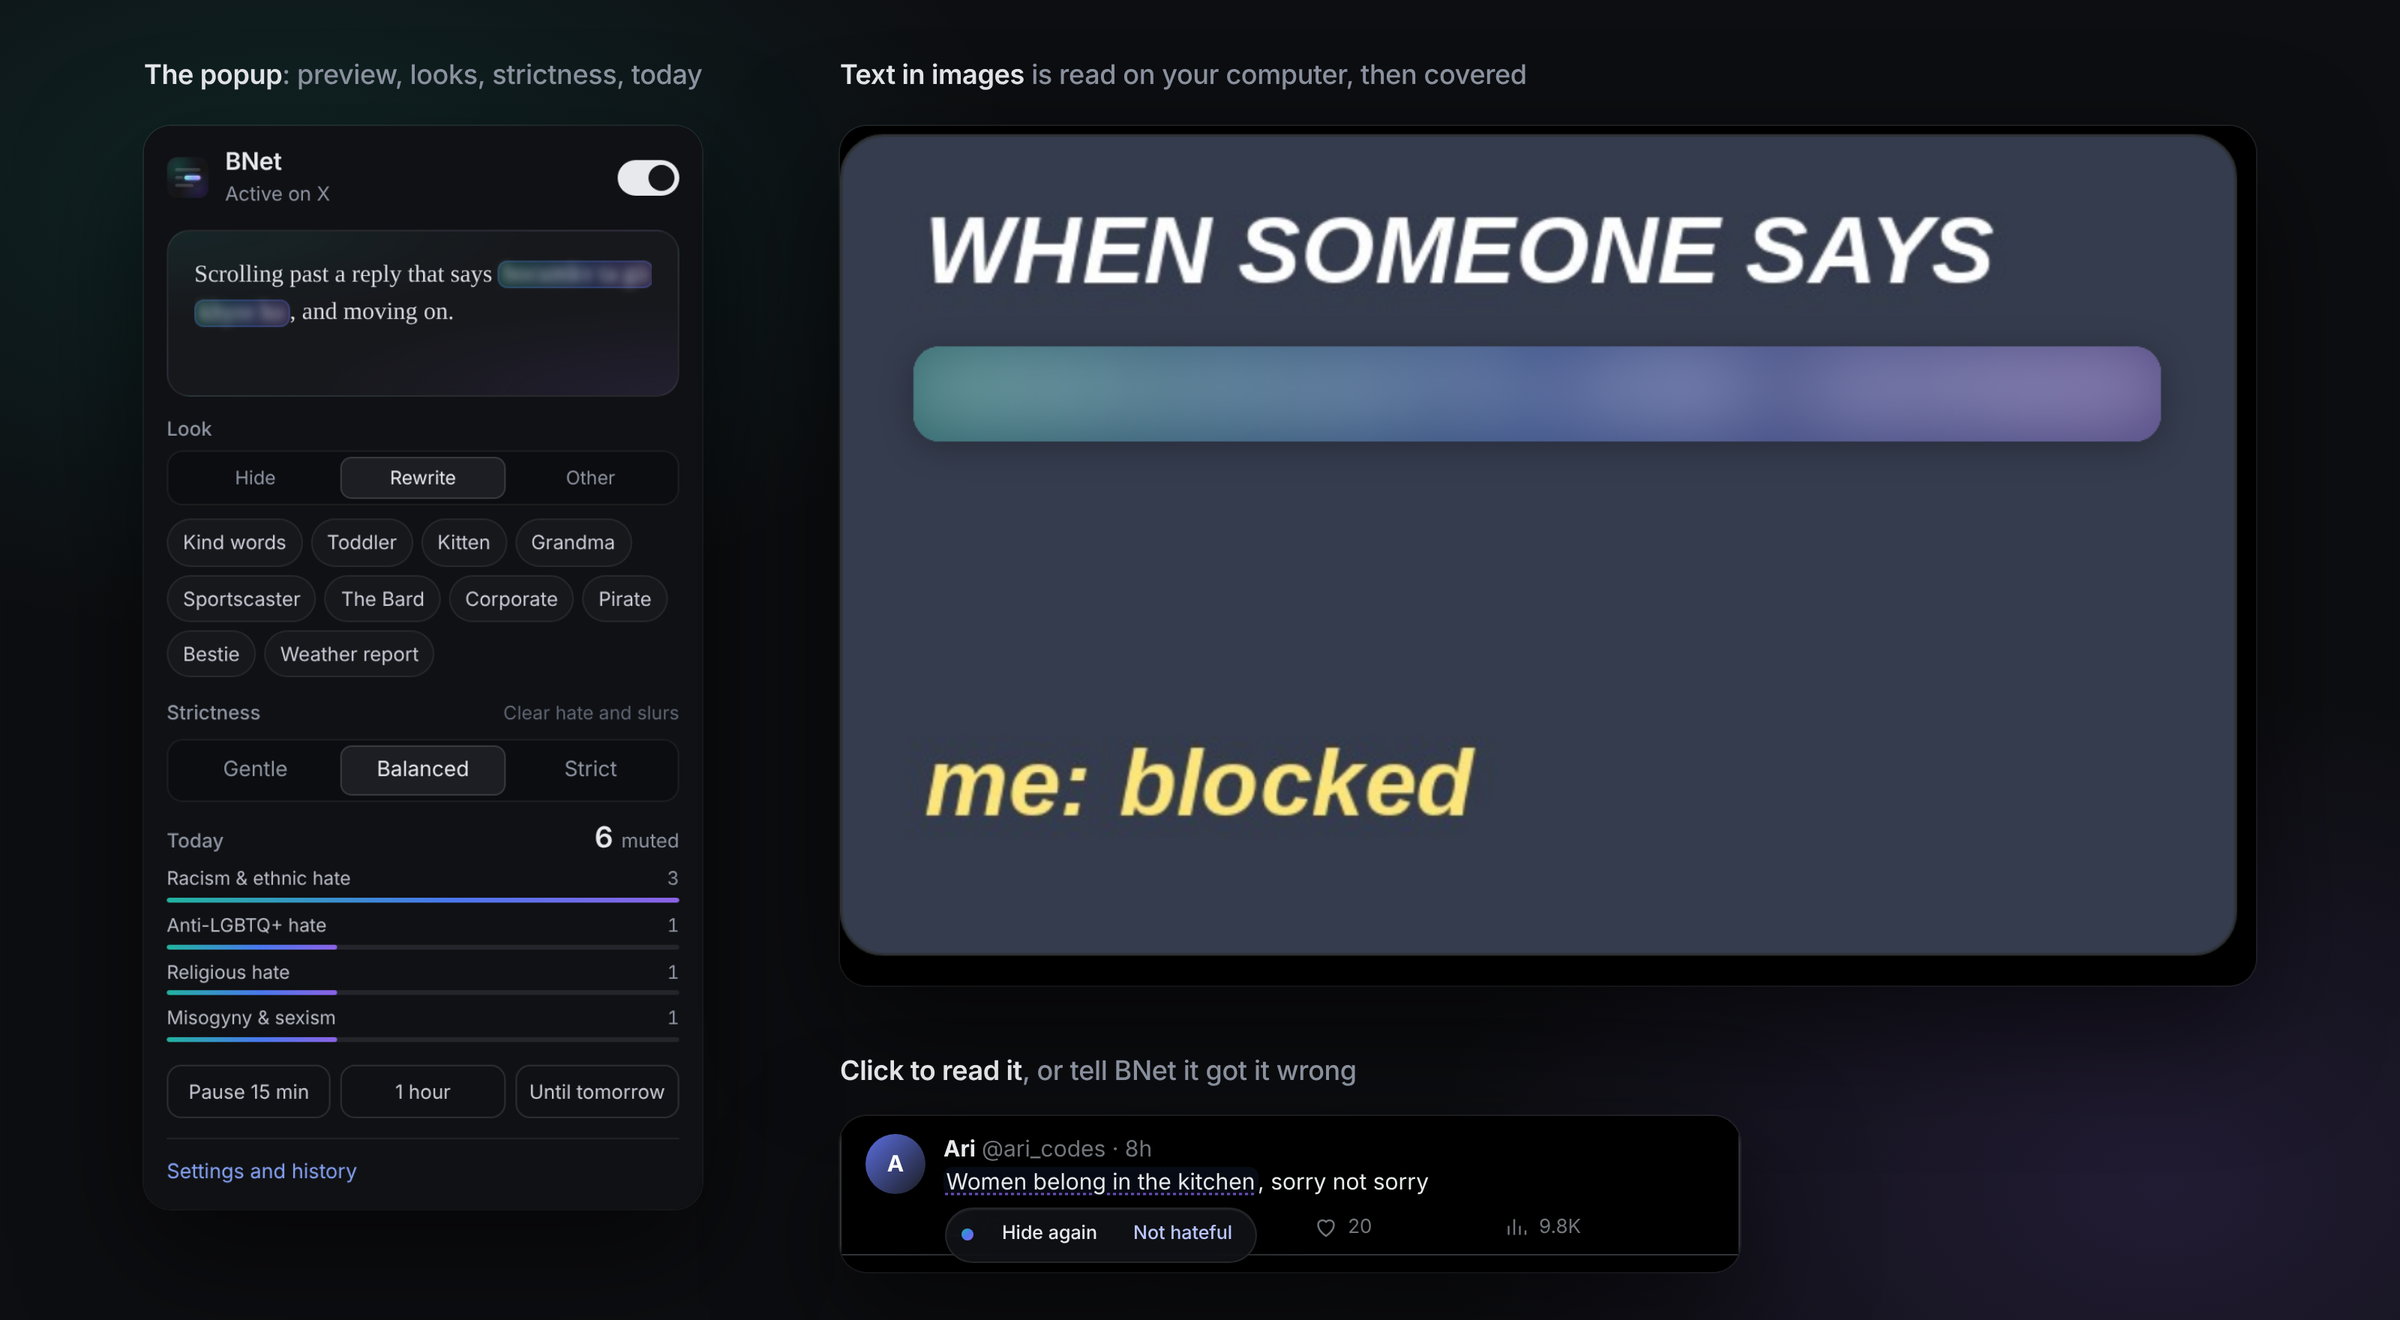
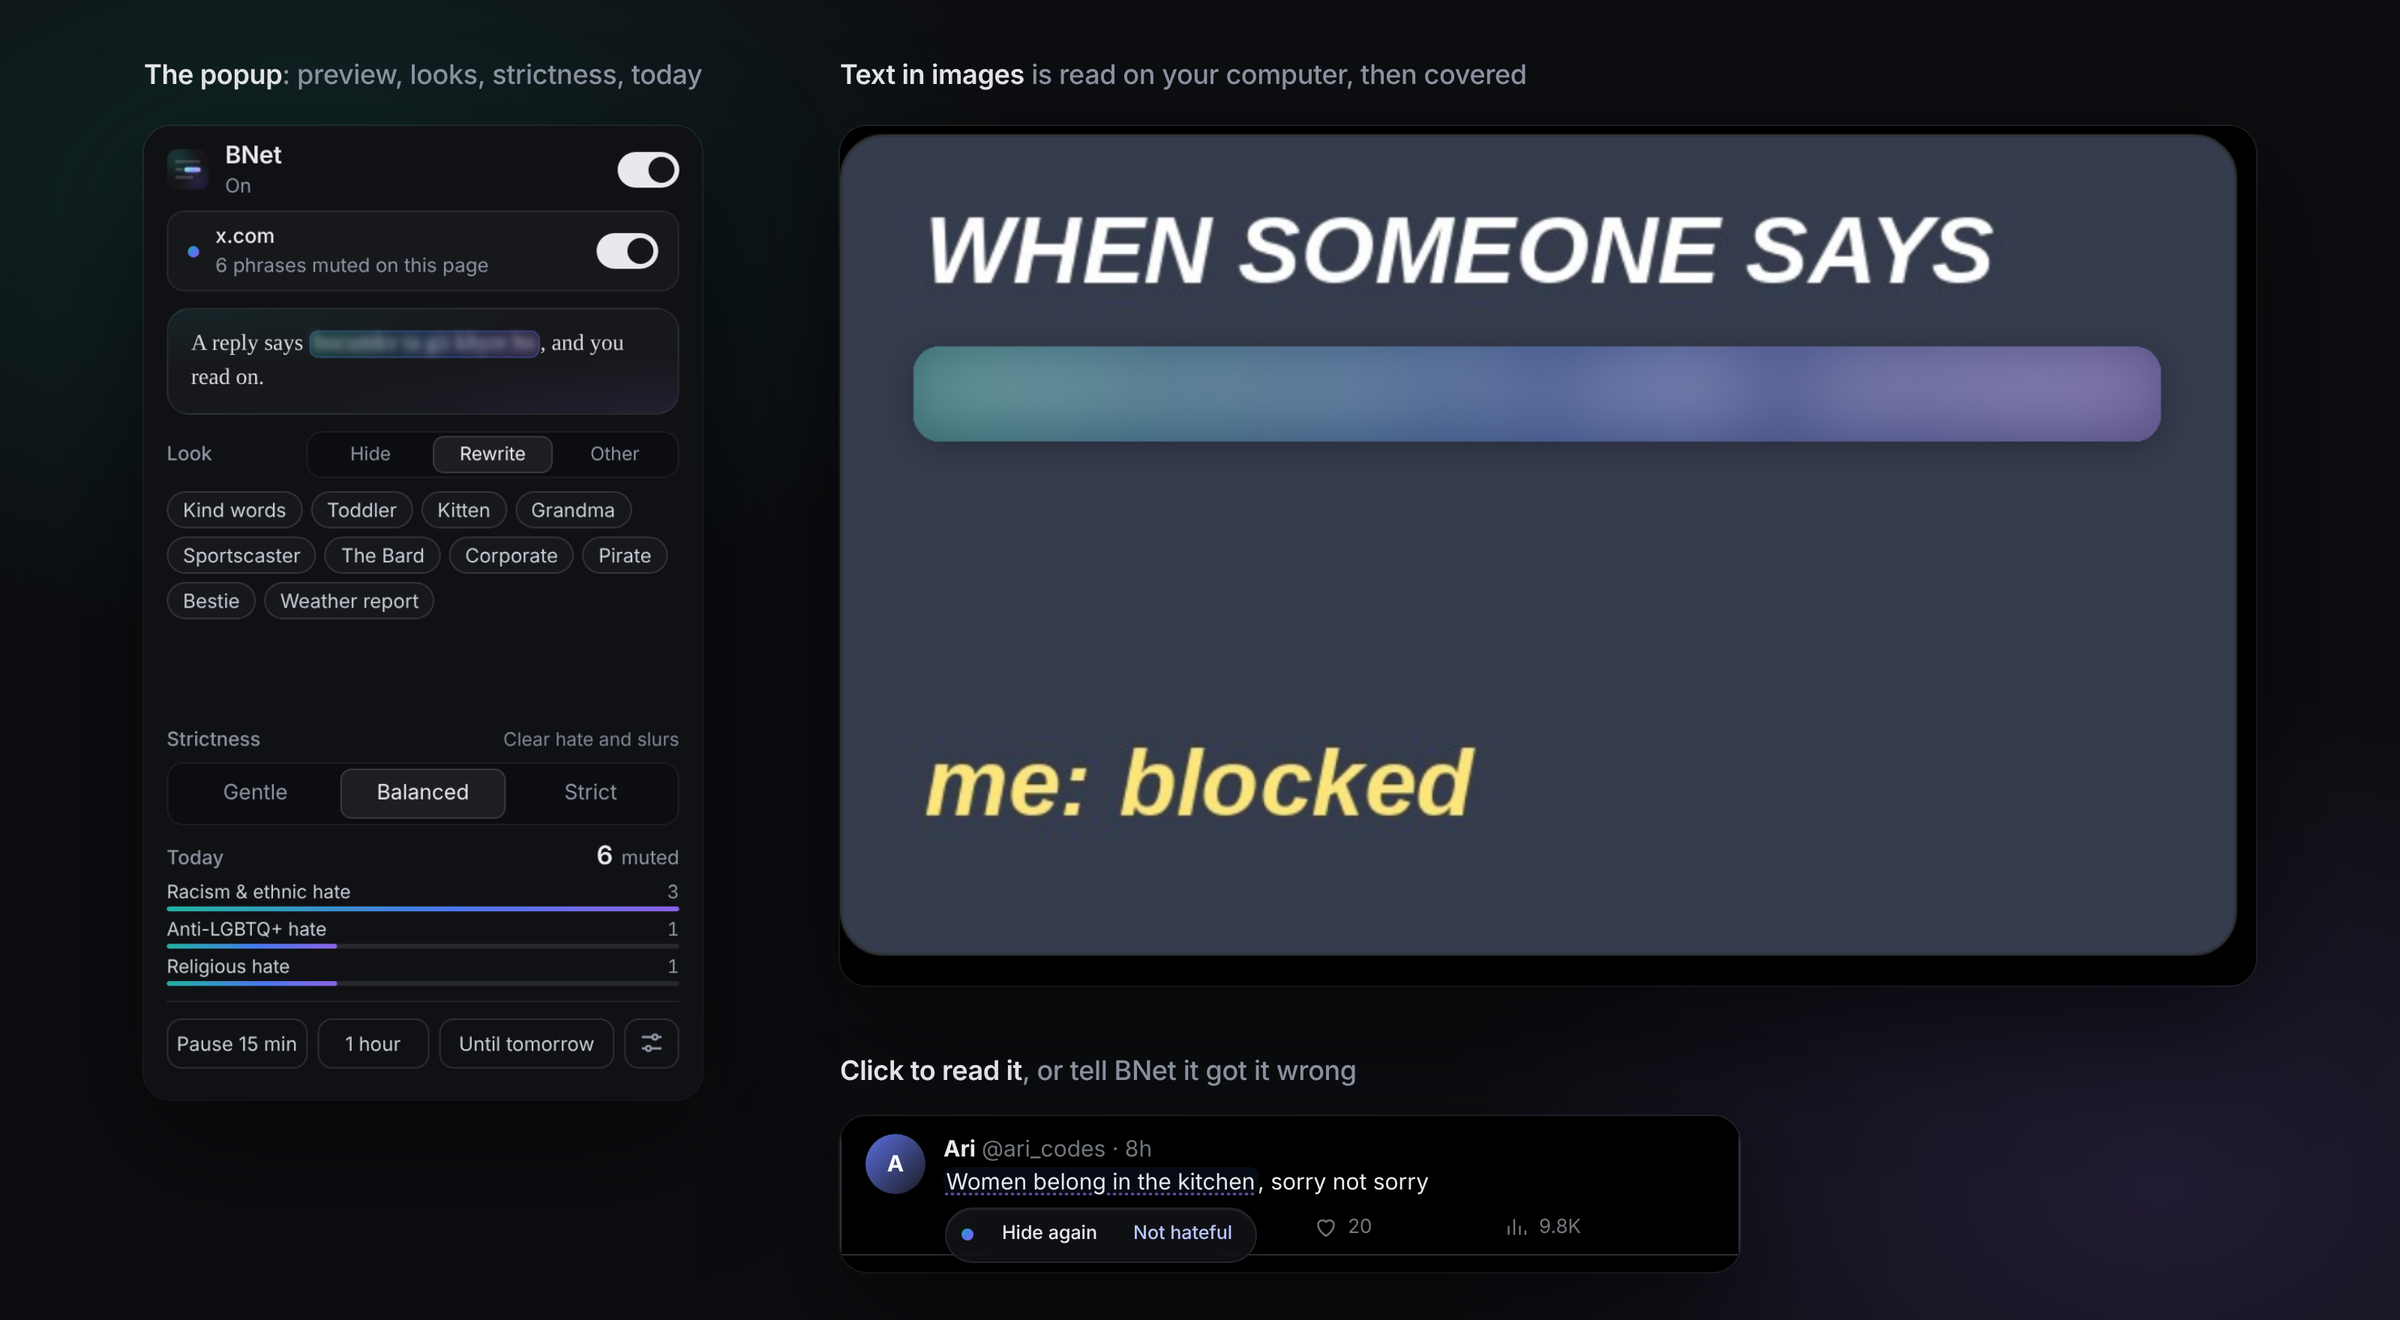
Chrome Web Store prep

diff --git a/docs/privacy.html b/docs/privacy.html
@@ -1,0 +1,59 @@
+<!doctype html>
+<html lang="en">
+<head>
+<meta charset="utf-8">
+<meta name="viewport" content="width=device-width, initial-scale=1">
+<title>BNet privacy policy</title>
+<style>
+  :root { color-scheme: light dark; --bg: #ffffff; --text: #16181d; --muted: #5b6070; --edge: #e4e6eb; --accent: #4a78ee; }
+  @media (prefers-color-scheme: dark) { :root { --bg: #0d0e11; --text: #eef0f5; --muted: #a6abb8; --edge: #23252b; --accent: #7d9cf3; } }
+  body { margin: 0; background: var(--bg); color: var(--text); font: 16px/1.6 Inter, system-ui, -apple-system, "Segoe UI", sans-serif; }
+  main { max-width: 720px; margin: 0 auto; padding: 48px 20px 64px; }
+  h1 { font-size: 30px; line-height: 1.2; letter-spacing: -.02em; margin: 0 0 4px; }
+  h2 { font-size: 19px; margin: 32px 0 8px; }
+  p, li { color: var(--text); }
+  .date { color: var(--muted); margin: 0 0 28px; }
+  ul { padding-left: 20px; }
+  li { margin: 6px 0; }
+  a { color: var(--accent); }
+  .box { border: 1px solid var(--edge); border-radius: 12px; padding: 16px 18px; }
+</style>
+</head>
+<body>
+<main>
+  <h1>BNet privacy policy</h1>
+  <p class="date">Last updated 27 October 2026</p>
+
+  <div class="box"><p><strong>In short:</strong> BNet works entirely inside your browser. It does not collect, send, sell or share any of your data. There is no BNet server, no account and no analytics.</p></div>
+
+  <h2>What BNet reads</h2>
+  <p>To mute hateful and extremist speech, BNet reads the text on the web pages you visit and, if "Text in images" is on, the words inside pictures on those pages. All of this is processed on your own computer. Text in pictures is read by a text-recognition engine (Tesseract) that ships inside the extension and runs locally.</p>
+
+  <h2>What BNet stores, and where</h2>
+  <p>BNet keeps the following in your browser's own extension storage, on your computer only:</p>
+  <ul>
+    <li>Your settings: look, strictness, categories, sites you switched off.</li>
+    <li>Rule lists: the built-in list, lists you subscribe to or import, and your own rules.</li>
+    <li>Counts of how many phrases were muted per day and per kind.</li>
+    <li>An optional learning log of phrases you muted by hand or marked as "Not hateful", with a short piece of surrounding text and the page address. You can turn it off, export it, or clear it at any time in Settings → Learning.</li>
+  </ul>
+  <p>Removing the extension deletes all of it.</p>
+
+  <h2>Network requests</h2>
+  <p>BNet makes only these requests, and none of them carry your data or your cookies:</p>
+  <ul>
+    <li><strong>Rule lists you subscribe to</strong>, fetched from the address you entered, to keep them up to date.</li>
+    <li><strong>Pictures already on the page you are viewing</strong>, downloaded again by BNet so it can read the text inside them on your computer. The request goes to the same address the page loaded the picture from.</li>
+  </ul>
+
+  <h2>Sharing</h2>
+  <p>BNet never sends your data anywhere. The "Copy request" button in Settings → Learning copies a summary of your learning log to your clipboard. Nothing is sent unless you choose to paste it somewhere yourself.</p>
+
+  <h2>Permissions</h2>
+  <p>BNet asks to read all websites because hateful speech can appear on any site. It uses that access only to find and mute it on the page in front of you, as described above.</p>
+
+  <h2>Contact</h2>
+  <p>Questions or concerns: open an issue at <a href="https://github.com/Yyas99/BNet/issues">github.com/Yyas99/BNet/issues</a>.</p>
+</main>
+</body>
+</html>

diff --git a/README.md b/README.md
@@ -184,6 +184,10 @@ node tools/eval.js 2 test       # dial (1-3) and split (train, dev, test or all)
 - A word list catches the wording it knows. New phrasing gets through until someone adds a rule.
 - Muting inside any Mac app, beyond the browser, is planned for later.
 
+## Privacy
+
+BNet collects nothing. Everything runs in your browser and nothing you read leaves your computer. The full policy is in [docs/privacy.html](docs/privacy.html), published at [yyas99.github.io/BNet/privacy.html](https://yyas99.github.io/BNet/privacy.html).
+
 ## Credits
 
 Text in images is read with [Tesseract.js](https://github.com/naptha/tesseract.js) and the English model from [tessdata](https://github.com/tesseract-ocr/tessdata_best), both under the Apache 2.0 licence. The evaluation uses the datasets credited above, under their own licences.
